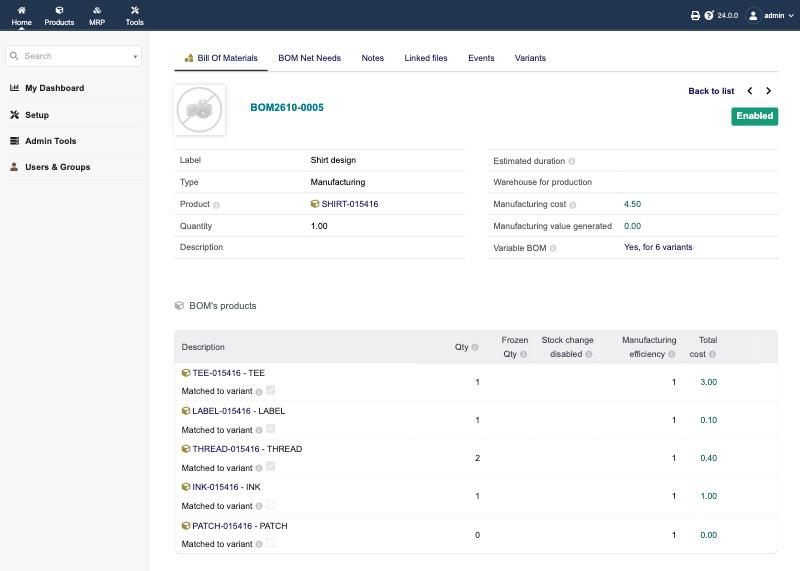
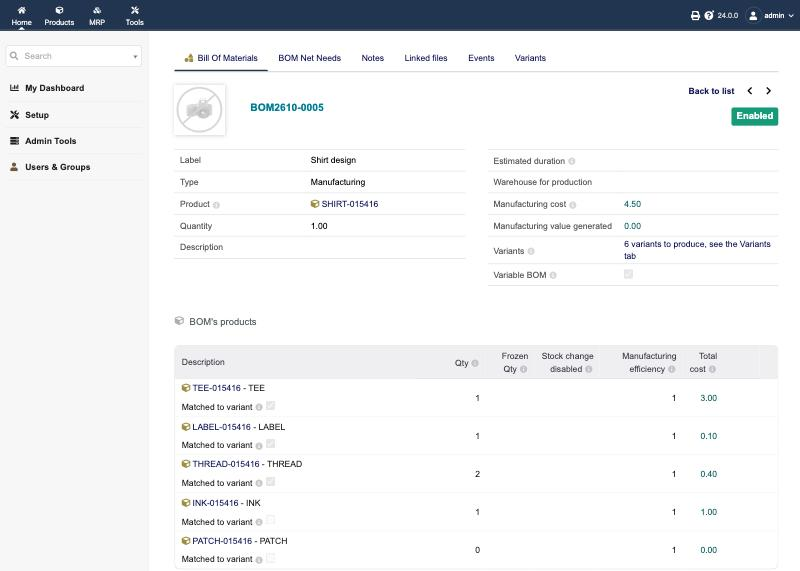
Explicit "Variable BOM" checkbox on BOMs instead of inferring it from the product
- New extrafield of BOMs "Variable BOM" (boolean, editable in draft).
  A BOM is variable only when ticked and its product has variants; the
  tick is refused (trigger) on a product without variants. Lines can be
  matched to variant only on a flagged BOM.
- An unflagged BOM of a parent product behaves exactly as the core: it
  produces the parent product and its lines are left alone.
- At the first activation with the flag, BOMs whose product has
  variants are ticked once (const VARIABLEBOM_FLAG_MIGRATED), so
  existing variable BOMs keep working.
- BOM card: the module row becomes "Variants: N variants to produce,
  see the Variants tab"; the tab and the error messages tell to tick
  the checkbox. README and test updated.

diff --git a/dev/test_variablebom.php b/dev/test_variablebom.php
@@ -195,6 +195,7 @@ $bom->label = 'Shirt design';
 $bom->fk_product = $shirt->id;
 $bom->qty = 1;
 $bom->status = BOM::STATUS_DRAFT;
+$bom->array_options['options_'.VariableBomResolver::EXTRAFIELD_VARIABLE] = 1;
 check('BOM created', $bom->create($user) > 0, $bom->error);
 $bom->fetch($bom->id);
 $resolver = new VariableBomResolver($db);
@@ -292,6 +293,7 @@ $panelBom->label = 'Panel';
 $panelBom->fk_product = $panel->id;
 $panelBom->qty = 1;
 $panelBom->status = BOM::STATUS_DRAFT;
+$panelBom->array_options['options_'.VariableBomResolver::EXTRAFIELD_VARIABLE] = 1;
 $panelBom->create($user);
 $panelBom->fetch($panelBom->id);
 $lineFabric = $panelBom->addLine($fabric->id, 1, 0, 0, 1, -1, null, null, 0, $matched);
@@ -303,6 +305,7 @@ $shirtBom2->label = 'Shirt with sub-BOM';
 $shirtBom2->fk_product = $shirt->id;
 $shirtBom2->qty = 1;
 $shirtBom2->status = BOM::STATUS_DRAFT;
+$shirtBom2->array_options['options_'.VariableBomResolver::EXTRAFIELD_VARIABLE] = 1;
 $shirtBom2->create($user);
 $shirtBom2->fetch($shirtBom2->id);
 $shirtBom2->addLine($panel->id, 1, 0, 0, 1, -1, $panelBom->id, null, 0, $matched);
@@ -348,12 +351,47 @@ $mo4id = $mo4->create($user);
 $consumed = ($mo4id > 0 ? $db->getRow("SELECT fk_product, qty FROM ".MAIN_DB_PREFIX."mrp_production WHERE fk_mo = ".((int) $mo4id)." AND role = 'toconsume'") : null);
 check('MO of a plain BOM unchanged', is_object($consumed) && $consumed->fk_product == $patch->id && (float) $consumed->qty == 8.0, json_encode($consumed));
 
+// Flag "Variable BOM" and its checks
+check('flag migration done once', getDolGlobalInt('VARIABLEBOM_FLAG_MIGRATED') == 1);
+$bad = new BOM($db);
+$bad->label = 'Flag without variants';
+$bad->fk_product = $ink->id;
+$bad->qty = 1;
+$bad->status = BOM::STATUS_DRAFT;
+$bad->array_options['options_'.VariableBomResolver::EXTRAFIELD_VARIABLE] = 1;
+$res = $bad->create($user);
+check('flag refused on a product without variants', $res < 0 && strpos(implode(' ', array_merge(array($bad->error), $bad->errors)), $langs->trans('ErrorVariableBomFlagNeedsVariants')) !== false, $res.' '.$bad->error.' '.implode(';', $bad->errors));
+
+$unflagged = new BOM($db);
+$unflagged->label = 'Unflagged parent BOM';
+$unflagged->fk_product = $shirt->id;
+$unflagged->qty = 1;
+$unflagged->status = BOM::STATUS_DRAFT;
+check('unflagged BOM of a parent product created', $unflagged->create($user) > 0, $unflagged->error);
+$unflagged->fetch($unflagged->id);
+$resolver = new VariableBomResolver($db);
+check('unflagged BOM is not variable', !$resolver->isVariable($unflagged));
+$res = $unflagged->addLine($tee->id, 1, 0, 0, 1, -1, null, null, 0, $matched);
+check('matched line refused on an unflagged BOM', $res < 0, (string) $res);
+check('plain line accepted on an unflagged BOM', $unflagged->addLine($tee->id, 1) > 0, $unflagged->error);
+$unflagged->fetch($unflagged->id);
+$unflagged->validate($user);
+$mo5 = new Mo($db);
+$mo5->fk_bom = $unflagged->id;
+$mo5->fk_product = $shirt->id;
+$mo5->qty = 1;
+$mo5->status = Mo::STATUS_DRAFT;
+$mo5id = $mo5->create($user);
+$consumed = ($mo5id > 0 ? $db->getRow("SELECT fk_product FROM ".MAIN_DB_PREFIX."mrp_production WHERE fk_mo = ".((int) $mo5id)." AND role = 'toconsume'") : null);
+check('unflagged BOM: MO of the parent product behaves as core', is_object($consumed) && $consumed->fk_product == $tee->id, json_encode($consumed).' '.$mo5->error);
+
 // Cleanup of rules by triggers
 $draftBom = new BOM($db);
 $draftBom->label = 'To delete';
 $draftBom->fk_product = $shirt->id;
 $draftBom->qty = 1;
 $draftBom->status = BOM::STATUS_DRAFT;
+$draftBom->array_options['options_'.VariableBomResolver::EXTRAFIELD_VARIABLE] = 1;
 $draftBom->create($user);
 $draftBom->fetch($draftBom->id);
 $l1 = $draftBom->addLine($ink->id, 1);

diff --git a/module/class/variablebomresolver.class.php b/module/class/variablebomresolver.class.php
@@ -40,6 +40,11 @@ class VariableBomResolver
 	const EXTRAFIELD_MATCH = 'variablebom_match';
 
 	/**
+	 * Name of the extrafield of BOMs that flags a BOM as variable (created by modVariableBom::init())
+	 */
+	const EXTRAFIELD_VARIABLE = 'variablebom_variable';
+
+	/**
 	 * @var DoliDB Database handler
 	 */
 	public $db;
@@ -79,6 +84,11 @@ class VariableBomResolver
 	 */
 	private $cache_refs = array();
 
+	/**
+	 * @var array<int,bool>	Flag "Variable BOM" per BOM
+	 */
+	private $cache_flags = array();
+
 
 	/**
 	 * Constructor
@@ -106,14 +116,37 @@ class VariableBomResolver
 	}
 
 	/**
-	 * Return if a BOM is a variable BOM, so if its product to produce is a parent product with variants.
+	 * Return if a BOM is flagged "Variable BOM" (extrafield of the BOM, ticked by the user).
+	 *
+	 * @param	BOM		$bom	BOM
+	 * @return	bool			True if flagged
+	 */
+	public function isFlagged(BOM $bom)
+	{
+		if (empty($bom->id)) {
+			return !empty($bom->array_options['options_'.self::EXTRAFIELD_VARIABLE]);
+		}
+		if (!isset($this->cache_flags[$bom->id])) {
+			if (isset($bom->array_options['options_'.self::EXTRAFIELD_VARIABLE])) {
+				$this->cache_flags[$bom->id] = !empty($bom->array_options['options_'.self::EXTRAFIELD_VARIABLE]);
+			} else {
+				$obj = $this->db->getRow("SELECT ".self::EXTRAFIELD_VARIABLE." as flag FROM ".$this->db->prefix()."bom_bom_extrafields WHERE fk_object = ".((int) $bom->id));
+				$this->cache_flags[$bom->id] = (is_object($obj) && !empty($obj->flag));
+			}
+		}
+
+		return $this->cache_flags[$bom->id];
+	}
+
+	/**
+	 * Return if a BOM is a variable BOM: flagged "Variable BOM" and its product to produce has variants.
 	 *
 	 * @param	BOM		$bom	BOM
 	 * @return	bool			True if variable BOM
 	 */
 	public function isVariable(BOM $bom)
 	{
-		if (!isModEnabled('variants') || empty($bom->fk_product)) {
+		if (!isModEnabled('variants') || empty($bom->fk_product) || !$this->isFlagged($bom)) {
 			return false;
 		}
 
@@ -156,7 +189,7 @@ class VariableBomResolver
 	}
 
 	/**
-	 * Return the ids of the validated BOMs that are variable BOMs (their product to produce has variants).
+	 * Return the ids of the validated BOMs that are variable BOMs (flagged, and their product to produce has variants).
 	 *
 	 * @return	int[]	Ids of BOMs
 	 */
@@ -166,6 +199,7 @@ class VariableBomResolver
 
 		$sql = "SELECT DISTINCT b.rowid";
 		$sql .= " FROM ".$this->db->prefix()."bom_bom as b";
+		$sql .= " INNER JOIN ".$this->db->prefix()."bom_bom_extrafields as ef ON ef.fk_object = b.rowid AND ef.".self::EXTRAFIELD_VARIABLE." = 1";
 		$sql .= " INNER JOIN ".$this->db->prefix()."product_attribute_combination as c ON c.fk_product_parent = b.fk_product";
 		$sql .= " WHERE b.status = ".((int) BOM::STATUS_VALIDATED);
 		$sql .= " AND b.entity IN (".getEntity('bom').")";

diff --git a/module/core/modules/modVariableBom.class.php b/module/core/modules/modVariableBom.class.php
@@ -33,6 +33,11 @@ class modVariableBom extends DolibarrModules
 	const EXTRAFIELD_MATCH = 'variablebom_match';
 
 	/**
+	 * Name of the extrafield of BOMs that flags a BOM as variable
+	 */
+	const EXTRAFIELD_VARIABLE = 'variablebom_variable';
+
+	/**
 	 * Constructor. Define names, constants, directories, boxes, permissions
 	 *
 	 * @param DoliDB $db Database handler
@@ -118,6 +123,27 @@ class modVariableBom extends DolibarrModules
 		if ($result < 0) {
 			$this->error = $extrafields->error;
 			return -1;
+		}
+		$result = $extrafields->addExtraField(self::EXTRAFIELD_VARIABLE, 'VariableBomFlag', 'boolean', 1000, '', 'bom_bom', 0, 0, '', '', 0, '', '1', 'VariableBomFlagHelp', '', '0', 'variablebom@variablebom', 'isModEnabled("variablebom")');
+		if ($result < 0) {
+			$this->error = $extrafields->error;
+			return -1;
+		}
+
+		// Once: flag the BOMs that were variable before the flag existed (product with variants), so nothing changes for them
+		if (!getDolGlobalInt('VARIABLEBOM_FLAG_MIGRATED')) {
+			$where = "EXISTS (SELECT c.rowid FROM ".$this->db->prefix()."product_attribute_combination as c WHERE c.fk_product_parent = b.fk_product)";
+			$sqls = array(
+				"INSERT INTO ".$this->db->prefix()."bom_bom_extrafields (fk_object, ".self::EXTRAFIELD_VARIABLE.") SELECT b.rowid, 1 FROM ".$this->db->prefix()."bom_bom as b WHERE ".$where." AND NOT EXISTS (SELECT ef.rowid FROM ".$this->db->prefix()."bom_bom_extrafields as ef WHERE ef.fk_object = b.rowid)",
+				"UPDATE ".$this->db->prefix()."bom_bom_extrafields SET ".self::EXTRAFIELD_VARIABLE." = 1 WHERE ".self::EXTRAFIELD_VARIABLE." IS NULL AND fk_object IN (SELECT b.rowid FROM ".$this->db->prefix()."bom_bom as b WHERE ".$where.")",
+			);
+			foreach ($sqls as $sql) {
+				if (!$this->db->query($sql)) {
+					$this->error = $this->db->lasterror();
+					return -1;
+				}
+			}
+			dolibarr_set_const($this->db, 'VARIABLEBOM_FLAG_MIGRATED', 1, 'chaine', 0, 'Existing variable BOMs flagged at first activation of the flag', 0);
 		}
 
 		$this->delete_menus();

diff --git a/module/core/triggers/interface_99_modVariableBom_VariableBomTrigger.class.php b/module/core/triggers/interface_99_modVariableBom_VariableBomTrigger.class.php
@@ -82,6 +82,21 @@ class InterfaceVariableBomTrigger extends DolibarrTriggers
 		}
 
 		switch ($action) {
+			case 'BOM_CREATE':
+			case 'BOM_MODIFY':
+				// The flag "Variable BOM" needs a product to produce with variants
+				if (!empty($object->array_options['options_variablebom_variable'])) {
+					dol_include_once('/variablebom/class/variablebomresolver.class.php');
+					$resolver = new VariableBomResolver($this->db);
+					if (count($resolver->getVariantCombinations($object->fk_product)) == 0) {
+						$langs->load('variablebom@variablebom');
+						$this->errors[] = $langs->trans('ErrorVariableBomFlagNeedsVariants');
+						return -1;
+					}
+					return 1;
+				}
+				break;
+
 			case 'BOMLINE_CREATE':
 			case 'BOMLINE_MODIFY':
 				// A line matched to variant must use a variant parent product into a variable BOM

diff --git a/module/class/actions_variablebom.class.php b/module/class/actions_variablebom.class.php
@@ -159,7 +159,7 @@ class ActionsVariableBom
 				return 0;
 			}
 			$url = dol_buildpath('/variablebom/bom_variants.php', 1).'?id='.((int) $object->id);
-			$this->resprints = '<tr><td>'.$form->textwithpicto($langs->trans('VariableBom'), $langs->trans('VariableBomHelp')).'</td><td>';
+			$this->resprints = '<tr><td>'.$form->textwithpicto($langs->trans('VariableBomTab'), $langs->trans('VariableBomHelp')).'</td><td>';
 			$this->resprints .= '<a href="'.dolPrintHTMLForAttributeUrl($url).'">'.$langs->trans('VariableBomNbVariants', count($resolver->getVariantCombinations($object->fk_product))).'</a>';
 			$this->resprints .= '</td></tr>';
 		}

diff --git a/README.md b/README.md
@@ -53,8 +53,13 @@ Open its setup page (the gear icon next to the module). It shows **How to use** 
 
 ### 2.1 Create the BOM on the parent product
 
-Create a BOM as usual, but choose the **parent** product, the one that has variants ("Shirt", not "Shirt L Red").
-The BOM card then shows **Variable BOM: Yes, for N variants**, with a link to the Variants tab.
+Create a BOM as usual, but choose the **parent** product, the one that has variants ("Shirt", not "Shirt L Red"), and
+tick **Variable BOM** on it. The module refuses the tick on a product without variants. The BOM card then shows the
+number of variants to produce, with a link to the Variants tab.
+
+A BOM on a parent product that is **not** ticked behaves exactly as in standard Dolibarr: it produces the parent
+product itself, and its lines cannot be matched to variant. (When upgrading from a version of the module without this
+checkbox, BOMs whose product has variants are ticked automatically once, so nothing changes for them.)
 
 ### 2.2 Add the lines, and tick "Matched to variant" where the component has variants
 
